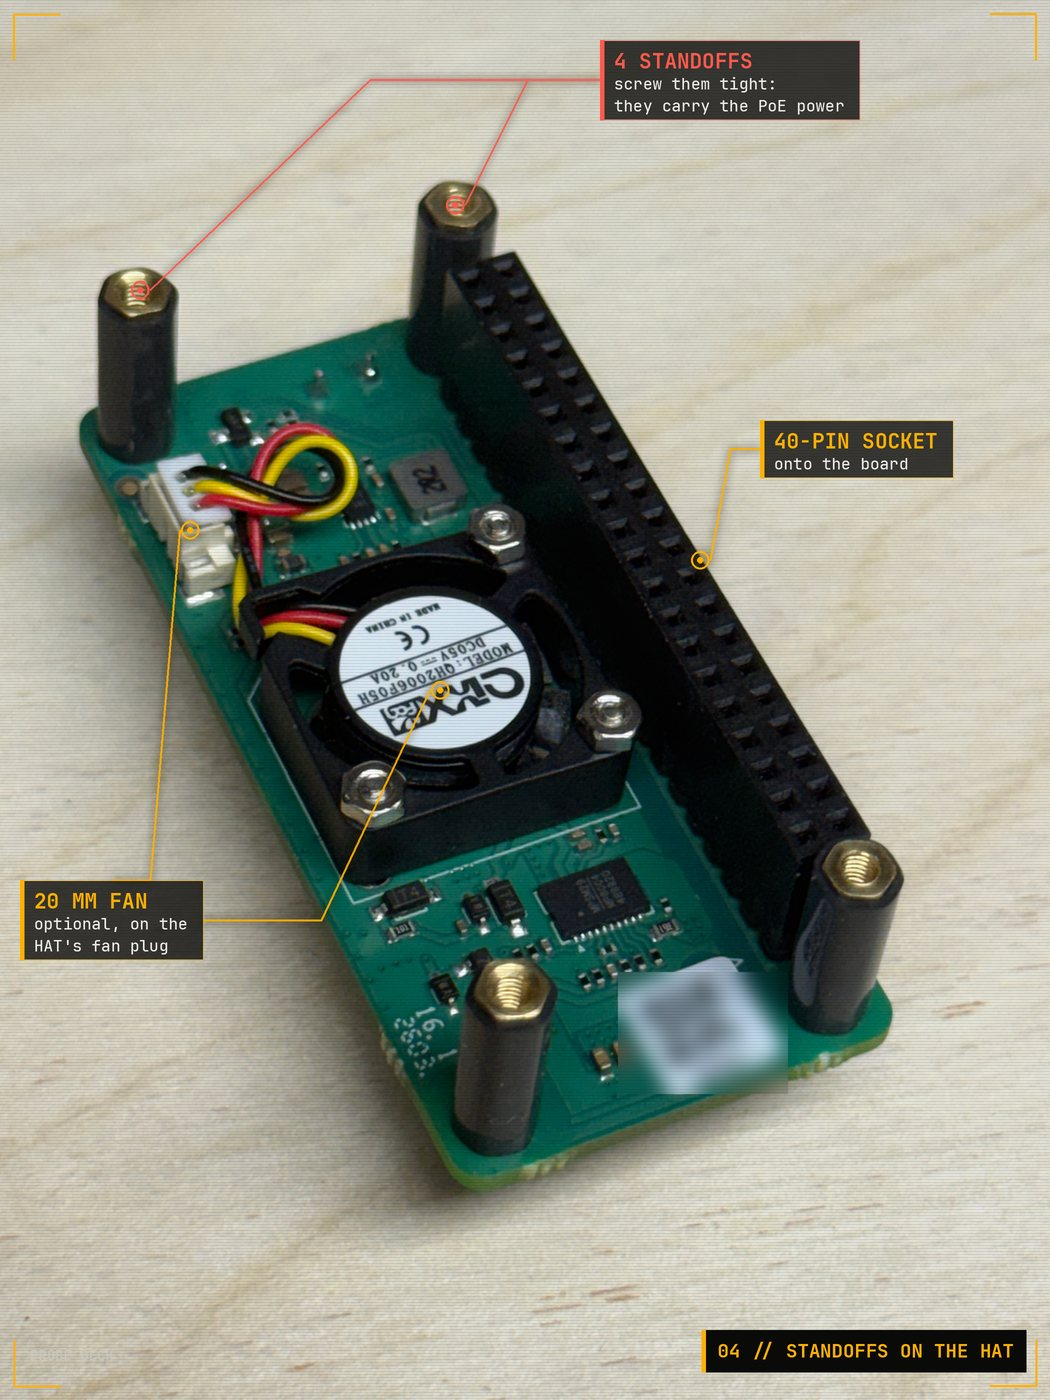
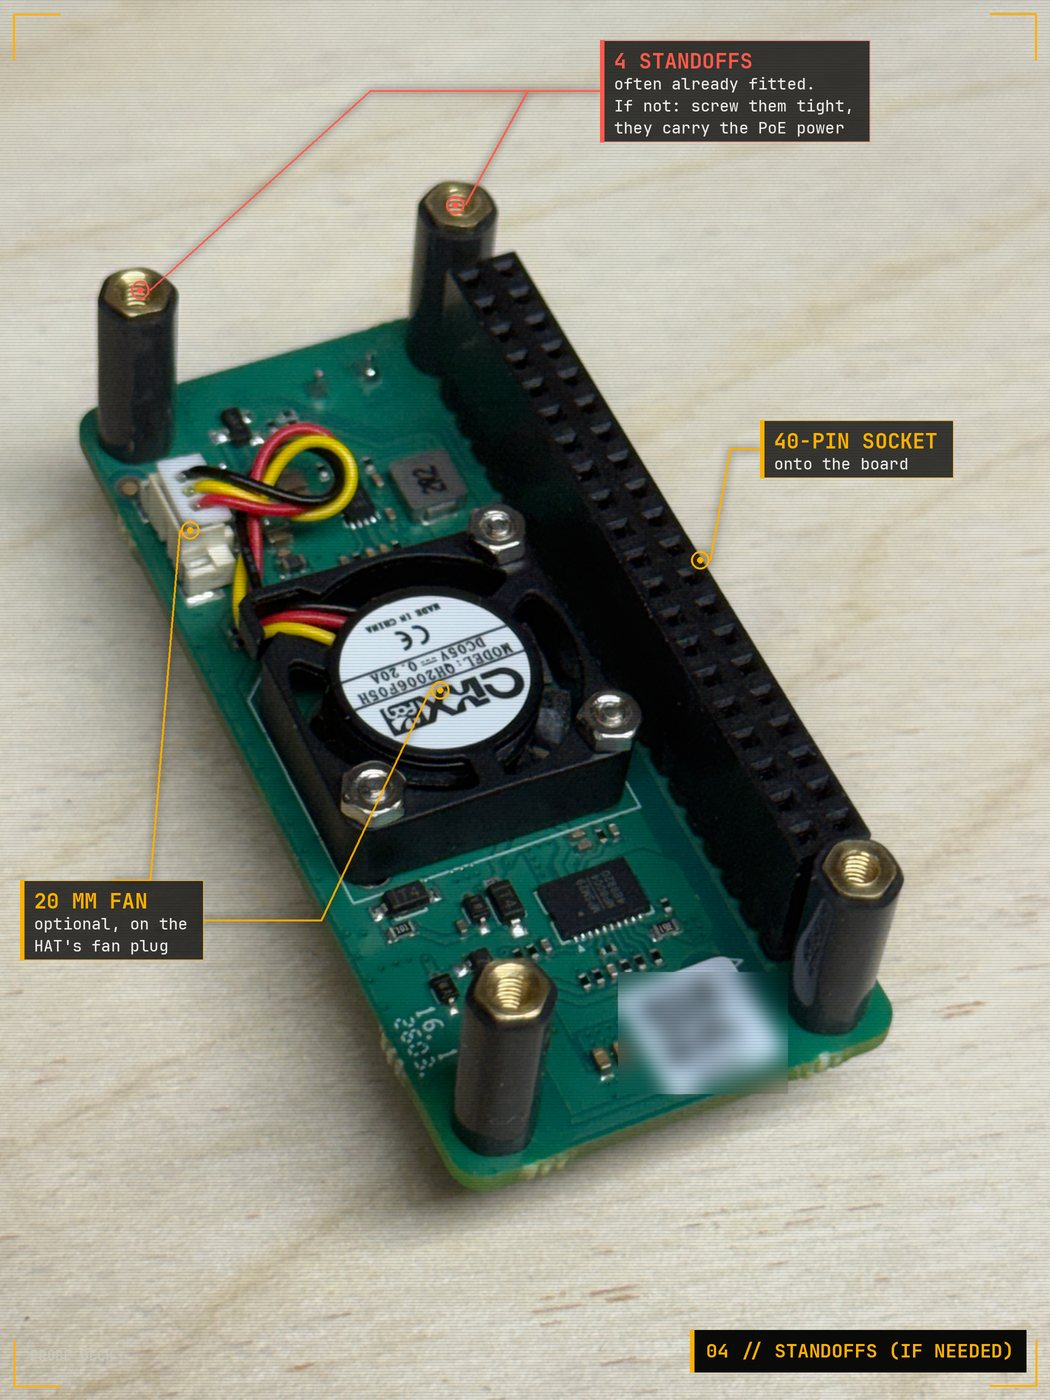
Docs: standoffs usually come fitted; step 4 is skippable

diff --git a/tools/annotate_photos.py b/tools/annotate_photos.py
@@ -58,8 +58,9 @@ SHOTS = [
         ("POE12 / POE36 HOLES", "PoE power flows through", 30, 470, [(103, 835), (300, 1108)], RED, "dot"),
         ("", "the standoffs here", 30, 0, [], RED, "none"),
     ]),
-    (5, "04-hat-under", "04 // STANDOFFS ON THE HAT", [(618, 972, 788, 1094)], [
-        ("4 STANDOFFS", "screw them tight:", 600, 40, [(455, 205), (140, 290)], RED, "dot"),
+    (5, "04-hat-under", "04 // STANDOFFS (IF NEEDED)", [(618, 972, 788, 1094)], [
+        ("4 STANDOFFS", "often already fitted.", 600, 40, [(455, 205), (140, 290)], RED, "dot"),
+        ("", "If not: screw them tight,", 600, 0, [], RED, "none"),
         ("", "they carry the PoE power", 600, 0, [], RED, "none"),
         ("40-PIN SOCKET", "onto the board", 760, 420, [(700, 560)], AMBER, "dot"),
         ("20 MM FAN", "optional, on the", 20, 880, [(440, 690), (190, 530)], AMBER, "dot"),

diff --git a/README.md b/README.md
@@ -106,7 +106,7 @@ A kernel filter passes only broadcast and multicast frames to the watchdog, so s
 | Part | Notes |
 | --- | --- |
 | **Radxa ZERO 3E** (2 GB is plenty) | RK3566, gigabit Ethernet, 65 × 30 mm. The **3E** has Ethernet; the 3W does not. |
-| **Radxa ZERO 3E PoE HAT** | IEEE 802.3af. Comes with 4 standoffs and 8 screws. **The standoffs and screws carry the power**: PoE does not work without them, so tighten them, and keep metal away from them. |
+| **Radxa ZERO 3E PoE HAT** | IEEE 802.3af. Comes with 4 standoffs and 8 screws, and usually arrives with the standoffs **already screwed onto the HAT**. **The standoffs and screws carry the power**: PoE does not work without them, so tighten them, and keep metal away from them. |
 | **microSD card**, 16–32 GB | The board has no built-in storage. A high-endurance card lasts longer. |
 | Fan (optional) | A 20 mm 5 V fan under the HAT, on the HAT's fan plug (as in the photos). Worth it in a closed case. |
 | **USB console cable** (for the Console tab) | USB-C on the probe to the switch's RJ45 console port. Any FTDI, Prolific, CH340 or CP210x cable works. |
@@ -114,7 +114,7 @@ A kernel filter passes only broadcast and multicast frames to the watchdog, so s
 
 ### Putting it together
 
-Radxa's [ZERO 3E PoE HAT guide](https://docs.radxa.com/en/zero/zero3/accessories/3e-poe-hat) has official diagrams. These are photos of probe-01 being built.
+Radxa's [ZERO 3E PoE HAT guide](https://docs.radxa.com/en/zero/zero3/accessories/3e-poe-hat) has official diagrams. These are photos of probe-01 being built. Steps 1–3 show the parts; step 4 is the first thing you might do, and most HATs arrive with it already done.
 
 <table>
 <tr>
@@ -131,7 +131,7 @@ Radxa's [ZERO 3E PoE HAT guide](https://docs.radxa.com/en/zero/zero3/accessories
 </tr>
 <tr>
 <td><b>3. The HAT.</b> The holes marked <b>POE12</b> and <b>POE36</b> are how the power reaches the HAT: through the standoffs. That's why they must be tight.</td>
-<td><b>4. Standoffs on the HAT.</b> Screw the four standoffs into the underside of the HAT. Fit the fan here now if you're using one, and plug it into the HAT's fan connector.</td>
+<td><b>4. Standoffs on the HAT (if needed).</b> The HAT usually arrives with these already on: if yours did, skip to step 5. If not, screw the four standoffs into the underside of the HAT. Fit the fan here now if you're using one, and plug it into the HAT's fan connector.</td>
 </tr>
 <tr>
 <td><img src="docs/hardware/05-stack.jpg" alt="The HAT stacked on the board with the standoffs between them, sitting in the case bottom"></td>
